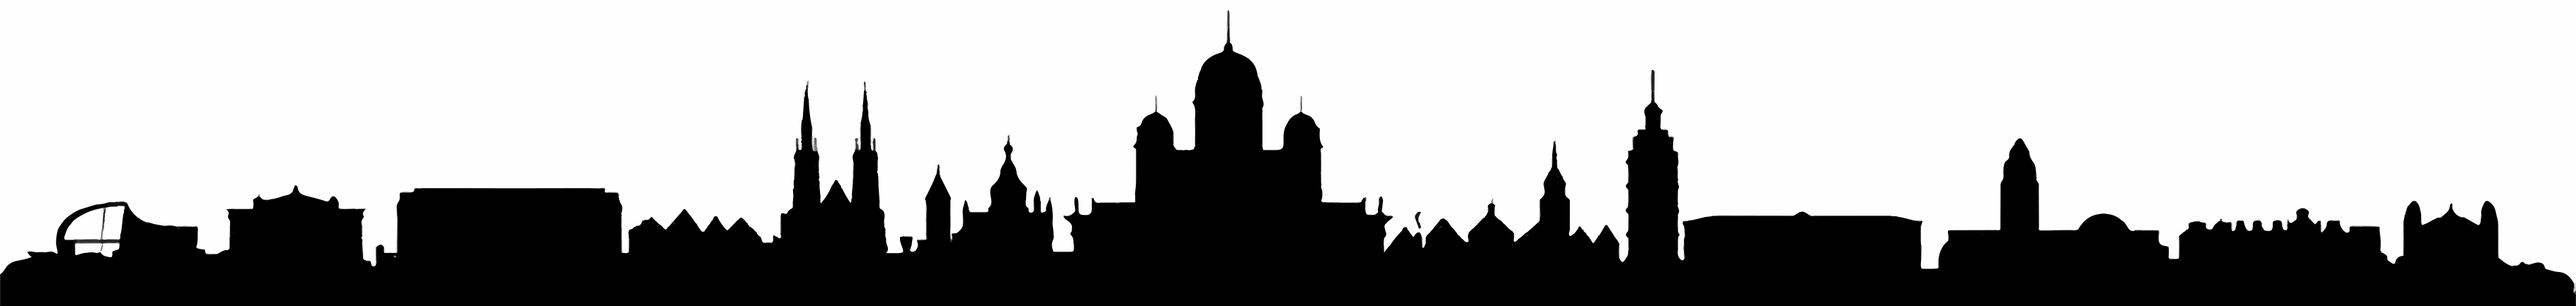
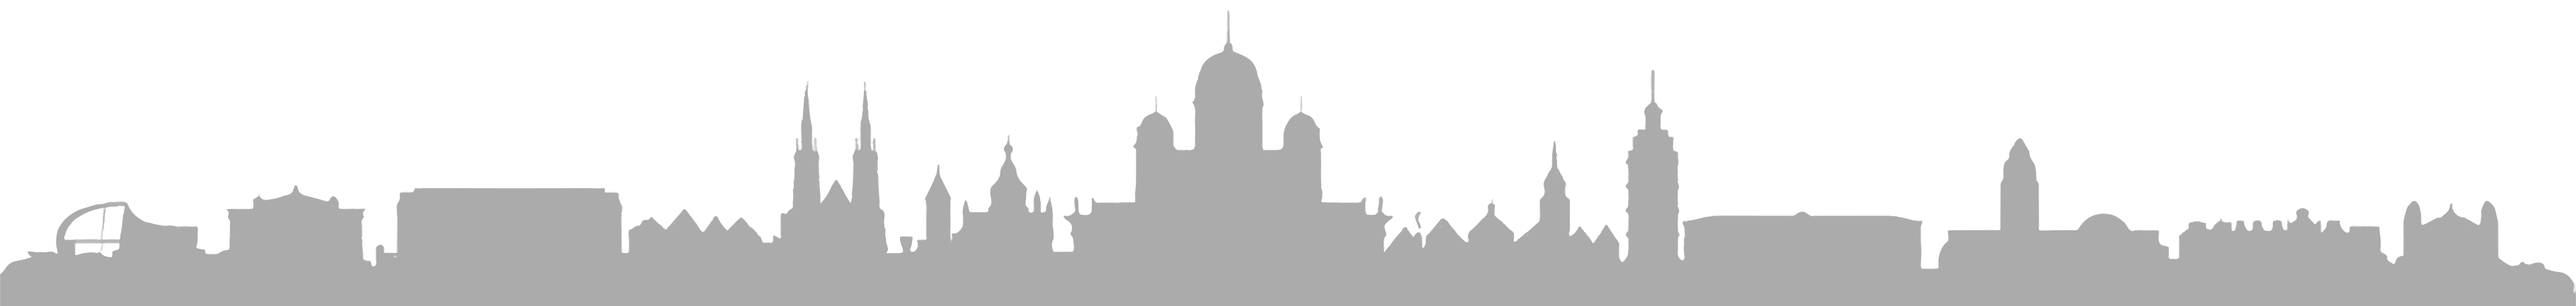
adjusted image colors, made img bgs transparent
logo background and images are now set for desktop browser view

diff --git a/helsinki-city-bike/src/styles/styles.scss b/helsinki-city-bike/src/styles/styles.scss
@@ -50,26 +50,21 @@ h3 {
 /* LOGO */
 
 .logo-base {
-    background-color: whitesmoke;
-    height:  25vh;
-    width: 101vw;
-    margin: 5vh 0 0 -1vw;
-}
-
-.logo-img {
     background-image: url('../assets/helsinki_silhouette.png');
+    background-color: white;
     background-position: bottom;
     background-size: contain;
     background-repeat: no-repeat;
     height:  25vh;
     width: 101vw;
     margin: 5vh 0 0 -1vw;
-    opacity: 10%;
+    display: flex;
+    justify-content: start;
 }
 
 .logo-base img {
-    transform: scale(.25);
-    margin: -43.8em 0 0 -45em;
+    margin: 0 15em;
+    padding: 1em 0;
 }
 
 /* CARD */

diff --git a/helsinki-city-bike/src/styles/styles.css b/helsinki-city-bike/src/styles/styles.css
@@ -41,26 +41,21 @@ h3 {
 
 /* LOGO */
 .logo-base {
-  background-color: whitesmoke;
-  height: 25vh;
-  width: 101vw;
-  margin: 5vh 0 0 -1vw;
-}
-
-.logo-img {
   background-image: url("../assets/helsinki_silhouette.png");
+  background-color: white;
   background-position: bottom;
   background-size: contain;
   background-repeat: no-repeat;
   height: 25vh;
   width: 101vw;
   margin: 5vh 0 0 -1vw;
-  opacity: 10%;
+  display: flex;
+  justify-content: start;
 }
 
 .logo-base img {
-  transform: scale(0.25);
-  margin: -43.8em 0 0 -45em;
+  margin: 0 15em;
+  padding: 1em 0;
 }
 
 /* CARD */

diff --git a/helsinki-city-bike/src/App.tsx b/helsinki-city-bike/src/App.tsx
@@ -5,12 +5,13 @@ import importCSV from './assets/icons8-import-csv-100.png'
 import bikeParking from './assets/icons8-bike-parking-100.png'
 import journey from './assets/icons8-waypoint-map-100.png'
 import logo from './assets/helsinki-city-bikes-logo.png'
+import cyclist from './assets/3601659.png'
 
 function App() {
 
   return (
     <>
-      <Logo img={logo}/>
+      <Logo img={logo} img2={cyclist}/>
       <div className='card-container'>
         <Card header="data" img={importCSV} alt=''/>
         <Card header="stations" img={bikeParking} alt=''/>

diff --git a/helsinki-city-bike/src/components/logo/logo.tsx b/helsinki-city-bike/src/components/logo/logo.tsx
@@ -1,8 +1,8 @@
-const Logo = ({img}: any) => {
-    return <div className="logo-base">
-        <div className="logo-img"></div>
-        <img src={img} alt="" />
-    </div>
+const Logo = ({img, img2}: any) => {
+    return <div className="logo-base logo-img">
+            <img src={img} alt="" />
+            <img src={img2} alt="" />
+        </div>
 }
 
 export default Logo;
